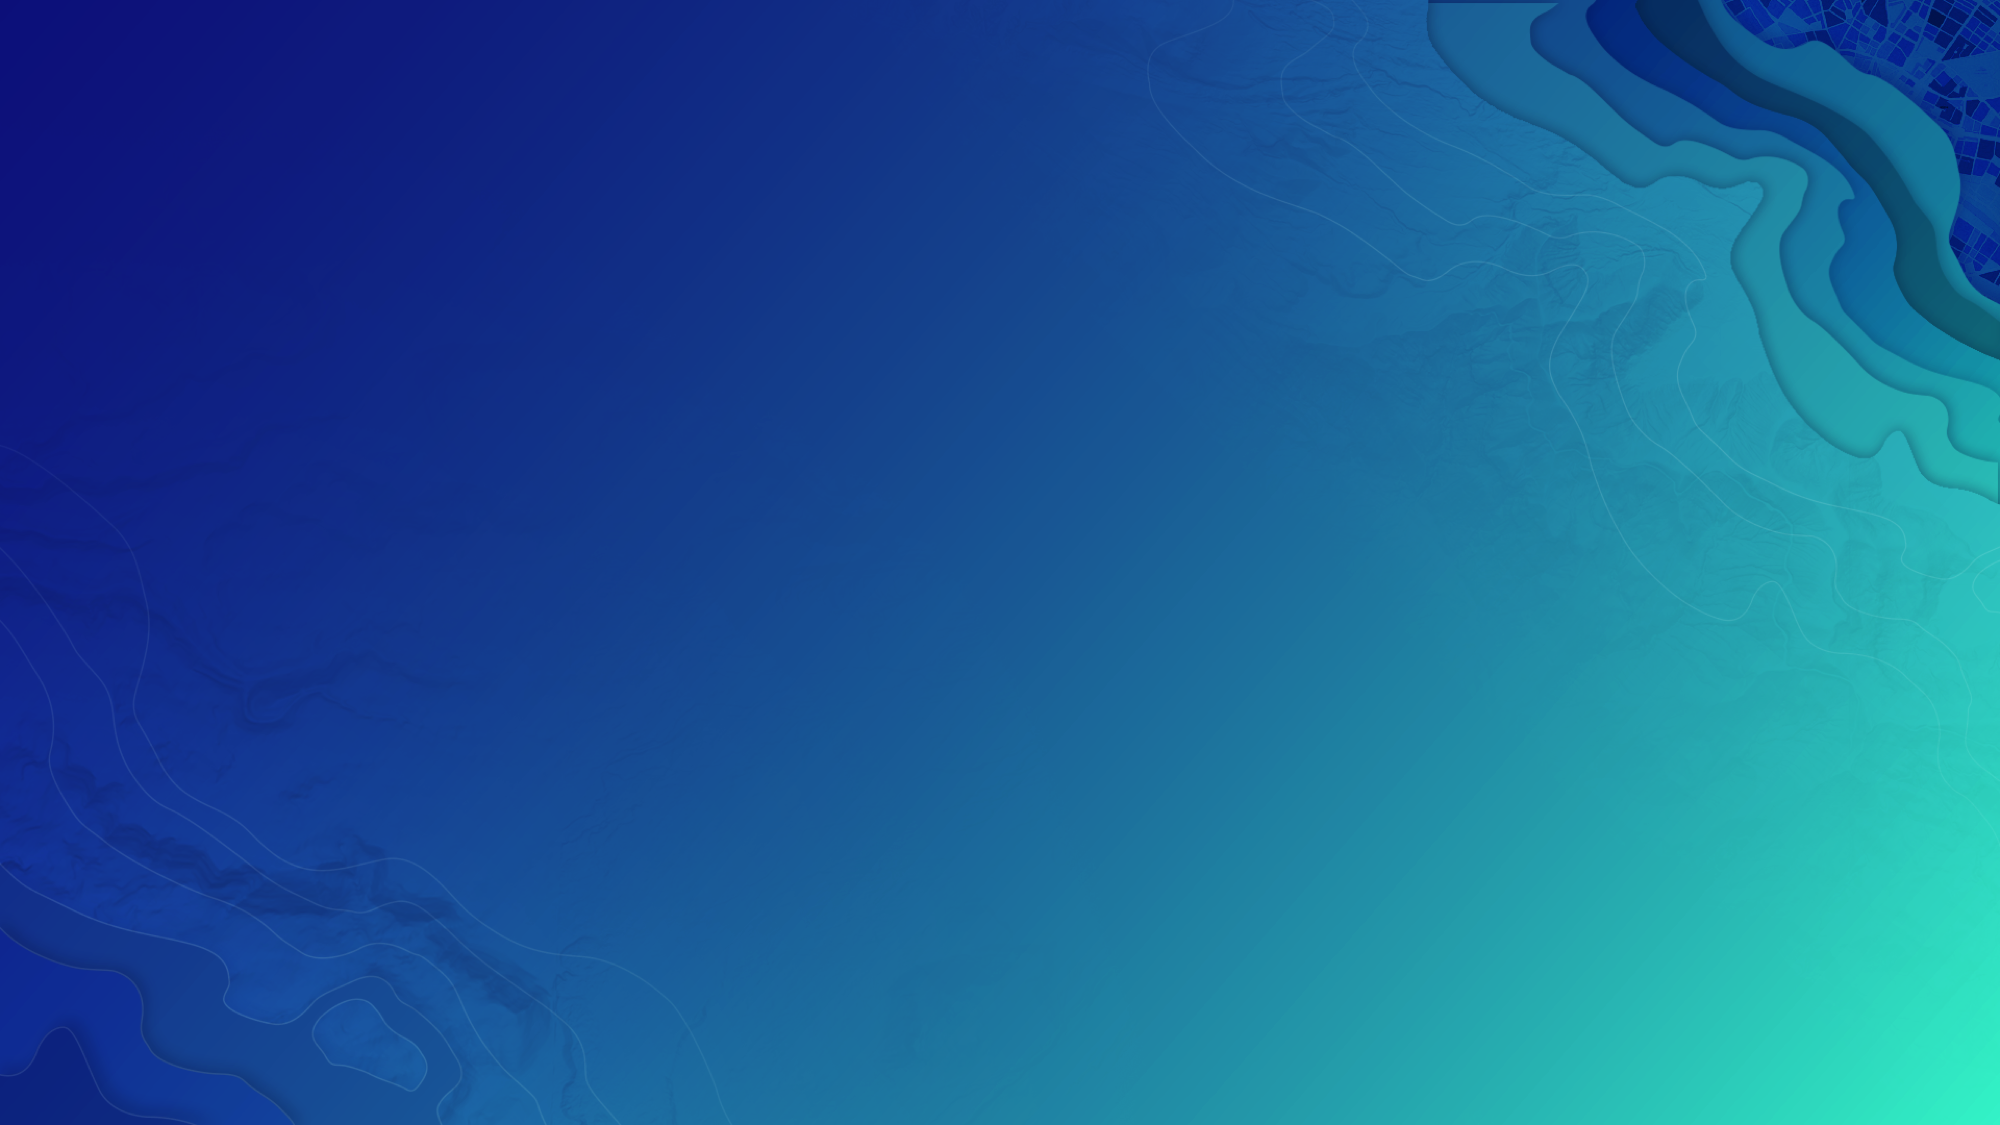
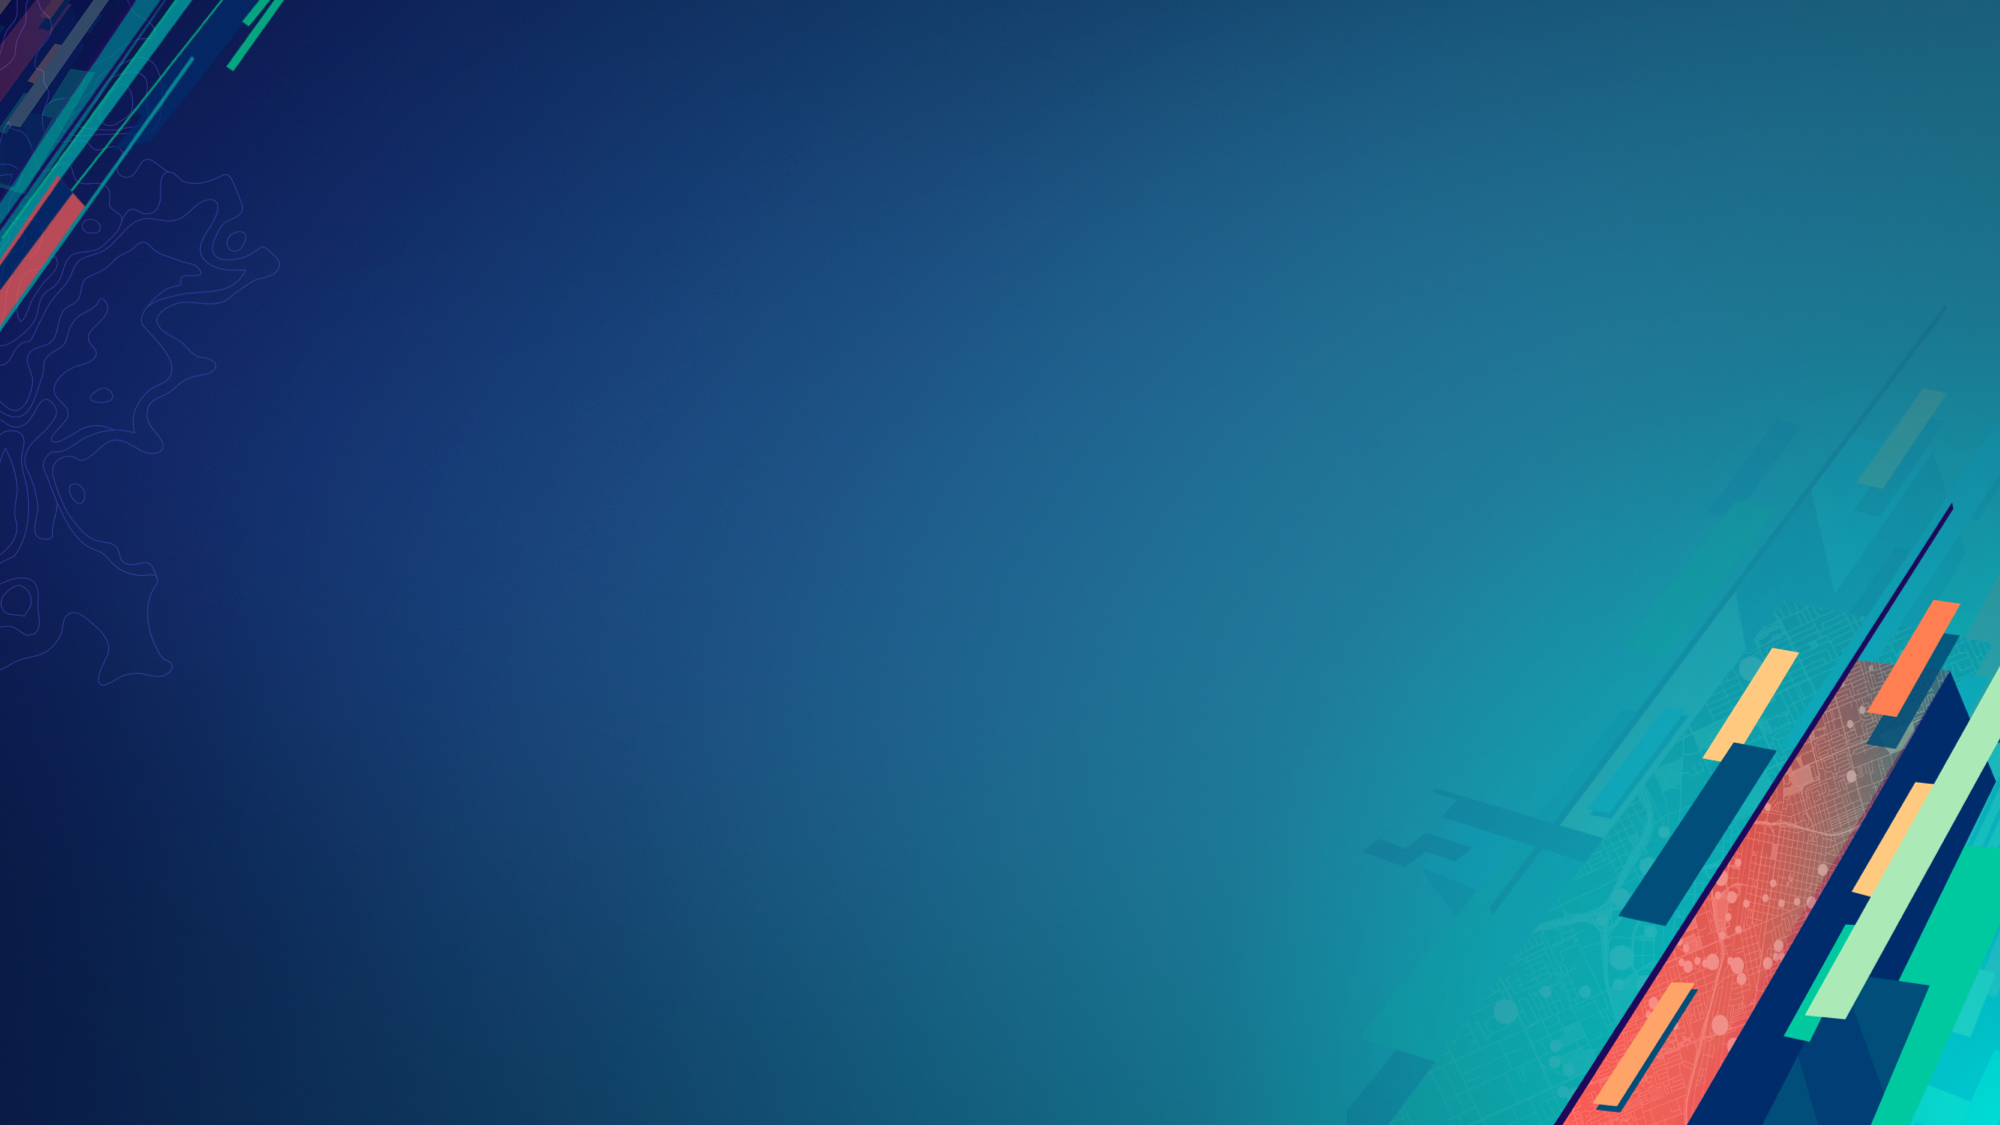
update background, set up for UC

diff --git a/2018-UC/jsapi-best-practices/slides/index.html b/2018-UC/jsapi-best-practices/slides/index.html
@@ -3,10 +3,10 @@
   <head>
     <meta charset="utf-8">
 
-    <title>ArcGIS API 4 for JavaScript: Patterns and Best Practices</title>
+    <title>ArcGIS API for JavaScript: Best Practices for Building Apps</title>
 
-    <meta name="description" content="Presentation given at the Esri User Conference 2017, ArcGIS API 4.0 for JavaScript: Patterns and Best Practices">
-    <meta name="author" content="Matt Driscoll, Rene Rubalcava, Esri">
+    <meta name="description" content="Presentation given at the Esri User Conference 2018, ArcGIS API for JavaScript: Best Practices for Building Apps">
+    <meta name="author" content="Kelly Hutchins, Rene Rubalcava, Esri">
 
     <meta name="apple-mobile-web-app-capable" content="yes" />
     <meta name="apple-mobile-web-app-status-bar-style" content="black-translucent" />
@@ -41,7 +41,7 @@
         <section data-markdown="index.md"
                  data-separator="^\r?\n---\r?\n"
                  data-separator-vertical="^\r?\n------\r?\n"
-                 data-background="images/slide-background-1.png">
+                 data-background="images/background.png">
         </section>
       </div>
     </div>

diff --git a/2018-UC/jsapi-best-practices/slides/index.md b/2018-UC/jsapi-best-practices/slides/index.md
@@ -1,16 +1,15 @@
 <!-- .slide: data-background="./images/title.png" -->
 
-<!-- Presenter: Matt -->
-# ArcGIS API 4.0 for JavaScript: Patterns and Best Practices
+UC 2018
 
-## Short URL: esriurl.com/4xpatterns2017
+# ArcGIS API for JavaScript: Best Practices for Building Apps
 
 ---
 
-<!-- .slide: data-background="./images/section-background.png" -->
+<!-- .slide: data-background="./images/section.png" -->
 # Presenters
 
-### Matt Driscoll – [@driskull](https://twitter.com/driskull)
+### Kelly Hutchins – [@kellyhutchins](https://twitter.com/kellyhutchins)
 ### René Rubalcava – [@odoenet](https://twitter.com/odoenet)
 
 ---
@@ -26,8 +25,7 @@
 
 ---
 
-<!-- Presenter: Rene -->
-<!-- .slide: data-background="./images/section-background.png" -->
+<!-- .slide: data-background="./images/section.png" -->
 
 # What do I get with the 4x JSAPI?
 
@@ -37,7 +35,7 @@
 
 ---
 
-<!-- .slide: data-background="./images/section-background.png" -->
+<!-- .slide: data-background="./images/section.png" -->
 # What are my options?
 
 - Needs?
@@ -84,8 +82,7 @@
 
 ---
 
-<!-- Presenter: Matt -->
-<!-- .slide: data-background="./images/section-background.png" -->
+<!-- .slide: data-background="./images/section.png" -->
 # Widgets!
 
 - ~20 Widgets out of the box <!-- .element: class="fragment" data-fragment-index="1" -->
@@ -123,7 +120,7 @@
 
 ---
 
-<!-- .slide: data-background="images/demo-background.png" -->
+<!-- .slide: data-background="images/demo.png" -->
 # Demo
 
 - [Popup Demo](../demos/popup-docking/popup-docking.html)
@@ -142,14 +139,14 @@
 
 - [Expand Sample](https://developers.arcgis.com/javascript/latest/sample-code/sandbox/index.html?sample=widgets-expand)
 
-```
-var htmlString = "<div style='background:red'>Hello World</div>";
+```js
+const htmlString = "<div style='background:red'>Hello World</div>";
 
-var node = document.createElement("div");
+const node = document.createElement("div");
 node.innerHTML = "Hello World 2";
 node.style.backgroundColor = "blue";
 
-var bgExpand = new Expand({
+const bgExpand = new Expand({
   view: view,
   //content: htmlString,
   //content: node,
@@ -175,7 +172,7 @@ Useful [view properties](https://developers.arcgis.com/javascript/latest/api-ref
 
 ---
 
-<!-- .slide: data-background="./images/section-background.png" -->
+<!-- .slide: data-background="./images/section.png" -->
 # View UI
 
 - View has `ui` property
@@ -192,7 +189,7 @@ Useful [view properties](https://developers.arcgis.com/javascript/latest/api-ref
 
 ---
 
-<!-- .slide: data-background="images/demo-background.png" -->
+<!-- .slide: data-background="images/demo.png" -->
 # Demo
 
 - [Components Demo](../demos/view-ui/view-ui-expand.html)
@@ -208,7 +205,7 @@ Useful [view properties](https://developers.arcgis.com/javascript/latest/api-ref
 
 ---
 
-<!-- .slide: data-background="images/demo-background.png" -->
+<!-- .slide: data-background="images/demo.png" -->
 # Demo
 
 - [View Padding Demo](../demos/view-padding/panel-view-padding.html)
@@ -254,14 +251,14 @@ Useful view sizing properties
 
 ---
 
-<!-- .slide: data-background="images/demo-background.png" -->
+<!-- .slide: data-background="images/demo.png" -->
 # Demo
 
 - [View UI Sizes](../demos/view-sizes/panel-dynamic.html)
 
 ---
 
-<!-- .slide: data-background="./images/section-background.png" -->
+<!-- .slide: data-background="./images/section.png" -->
 # Apps
 
 - Lots of existing apps
@@ -290,52 +287,16 @@ Useful view sizing properties
 
 ---
 
-# Apps: Calcite Maps
-
-Bootstrap theme made with ArcGIS Maps in mind
-
-- [Calcite Maps GitHub](https://github.com/Esri/calcite-maps)
-- [Live Examples](https://esri.github.io/calcite-maps/samples/index.html)
-
----
-
-<!-- .slide: data-background="./images/section-background.png" -->
+<!-- .slide: data-background="./images/section.png" -->
 # Web AppBuilder
 
 ---
 
-<!-- Presenter: Rene -->
 # Apps: Web AppBuilder
 
 - Two Options
   - Online
   - Developer Edition
-
----
-
-## Web AppBuilder - Online
-
-- Easy to set up
-- Hosted on ArcGIS.com
-- Share settings
-- Custom widgets in Portal
-  - [blog post](https://blogs.esri.com/esri/arcgis/2017/06/30/web-appbuilder-for-arcgis-now-supports-custom-widgets-in-arcgis-enterprise-10-5-1/)
-
----
-
-## Web AppBuilder - Developer Edition
-
-- Deploy on your own site
-- Use custom widgets
-- [Download the SDK](https://developers.arcgis.com/web-appbuilder/)
-
----
-
-## Web AppBuilder - Developer Edition
-
-- Custom Widgets
-  - [Solutions Widgets](https://github.com/Esri/solutions-webappbuilder-widgets)
-  - [Widget Generator](https://github.com/Esri/generator-esri-appbuilder-js)
 
 ---
 
@@ -394,7 +355,6 @@ src/                  <-- application code
 typings/
   extensions.d.ts     <-- any custom typings you need
 package.json          <-- package file
-postcss.config.js     <-- Optional PostCSS configurations
 tsconfig.json         <-- TypeScript compilation configuration
 tslint.json           <-- Linting for your TypeScript code
 ```
@@ -403,9 +363,6 @@ tslint.json           <-- Linting for your TypeScript code
 
 ### TypeScript Best Practices
 - Use `interface` over `type`
-- For JSAPI modules, `import WebMap = require("esri/WebMap")`
-  - We don't use default exports (need to support vanilla JS users)
-  - Or JS users would need to do `var webmap = new WebMap.default()`
 - Use provided decorators (Accessor and Widget)
 
 ---
@@ -477,20 +434,18 @@ self.addEventListener("install", function(e) {
 ---
 
 ### Take advantage of some modern tooling
-- [PostCSS](http://postcss.org/) - plugin based CSS processing
 - [Prettier](https://github.com/prettier/prettier) - automatically beautify code
-- Use Grunt, Gulp, or even just npm scripts
+- [webpack](https://webpack.js.org/)
 
 ---
 
 ### Review an app
 
-<iframe height='600' scrolling='no' title='ArcGIS JS API - Demo Appp' src='https://esridemo-5fda1.firebaseapp.com/' frameborder='no' allowtransparency='true' allowfullscreen='true' style='width: 337px;background:white;'>
+<iframe height='600' scrolling='no' title='ArcGIS JS API - Demo Appp' src='https://arcgis-template-app.surge.sh/' frameborder='no' allowtransparency='true' allowfullscreen='true' style='width: 337px;background:white;'>
 </iframe>
 
 ---
 
-<!-- Presenter: Rene + Matt -->
 # Lets Recap
 
 - What you get in 4x <!-- .element: class="fragment" data-fragment-index="1" -->
@@ -506,7 +461,7 @@ self.addEventListener("install", function(e) {
 
 ---
 
-<!-- .slide: data-background="./images/section-background.png" -->
+<!-- .slide: data-background="./images/section.png" -->
 # Additional Resources
 
 <!-- - Geonet/support/rene/github/sass (Rene) -->
@@ -518,7 +473,8 @@ self.addEventListener("install", function(e) {
 
 # JSAPI Resources
 - TypeScript definition files
-- Bower
+- npm demo
+- webpack demo
 - JSHint
 
 [esriurl.com/resources](http://esriurl.com/resources)
@@ -537,24 +493,13 @@ self.addEventListener("install", function(e) {
 
 ---
 
-# Get The Code
-
-## [esriurl.com/4xpatterns2017](http://esriurl.com/4xpatterns2017)
-
----
-
 # Related Sessions
 
-- [ArcGIS API for JavaScript: What’s New](https://userconference2017.schedule.esri.com/schedule/1342175613)
-- [Getting Started with ArcGIS API for JavaScript](https://userconference2017.schedule.esri.com/schedule/1303988006)
-- [Building 3D GIS Applications with JavaScript](https://userconference2017.schedule.esri.com/schedule/216191407)
-- [Optimizing Your JavaScript App for Performance](https://userconference2017.schedule.esri.com/schedule/187809795)
-- [ArcGIS API for JavaScript: Customizing Widgets](https://userconference2017.schedule.esri.com/schedule/245657592)
-- [Strategies for Building Mobile Apps Using ArcGIS API for JavaScript](https://userconference2017.schedule.esri.com/schedule/400241268)
+TBD
 
 ---
 
-<!-- .slide: data-background="images/survey-background.png" -->
+<!-- .slide: data-background="images/survey.png" -->
 
 ---
 
@@ -568,4 +513,4 @@ self.addEventListener("install", function(e) {
 
 ---
 
-<!-- .slide: data-background="images/end-background.png" -->
+<!-- .slide: data-background="images/end.png" -->

diff --git a/2018-UC/jsapi-best-practices/slides/outline.md b/2018-UC/jsapi-best-practices/slides/outline.md
@@ -1,35 +1,6 @@
 
-# Patterns and Best Practices for Building Apps with the ArcGIS API 4.X for JavaScript
+# ArcGIS API for JavaScript: Best Practices for Building Apps
 
-The ArcGIS JavaScript API 4.x is our next-generation web technology for building 2D and 3D interactive, compelling web applications. In this session we’ll show you the widgets and features of the API that you can use to build a variety of applications, from the most basic to applications that scale! You'll learn how to create apps from boilerplates, how to modify existing apps, how to create apps using view components, how to make responsive apps, and time saving tips to be aware of
+The ArcGIS API 4.x for JavaScript is our next-generation web technology for building interactive, compelling web applications that run across any device. There are significant changes to the core features and programming patterns to enable a cleaner, more productive developer experience. Come to this session if you plan to migrate a JS app to the new API, or plan to write one from scratch. You will learn about key aspects of the new API design, and best practices for developing with the API.
 
-## Outline (65 Minutes + 10 for questions)
-
-- 4x: What you get (Rene)
-  - es6
-  - browser support
-- Options available (Rene)
-  - resources
-  - time
-  - some kind of graph
-  - native apps?
-  - dashboard stuff?
-  - Frameworks
-  - phonegap?
-- Widgets (Matt)
-  - out of box widgets
-  - expand demo
-- Reponsiveness of views (matt)
-  - View UI
-  - view padding
-  - view sizes
-  - Popup docking
-- Apps
-  - Configurable AGOL apps (matt)
-  - Boilerplate (matt)
-    - JS & TS
-  - Calcite maps (matt)
-  - WebAppBuilder (rene)
-  - Scaffodling app (rene)
-- Gotchas (rene)
-- Additional Resources (rene)
+## Outline (50 Minutes + 10 for questions)
